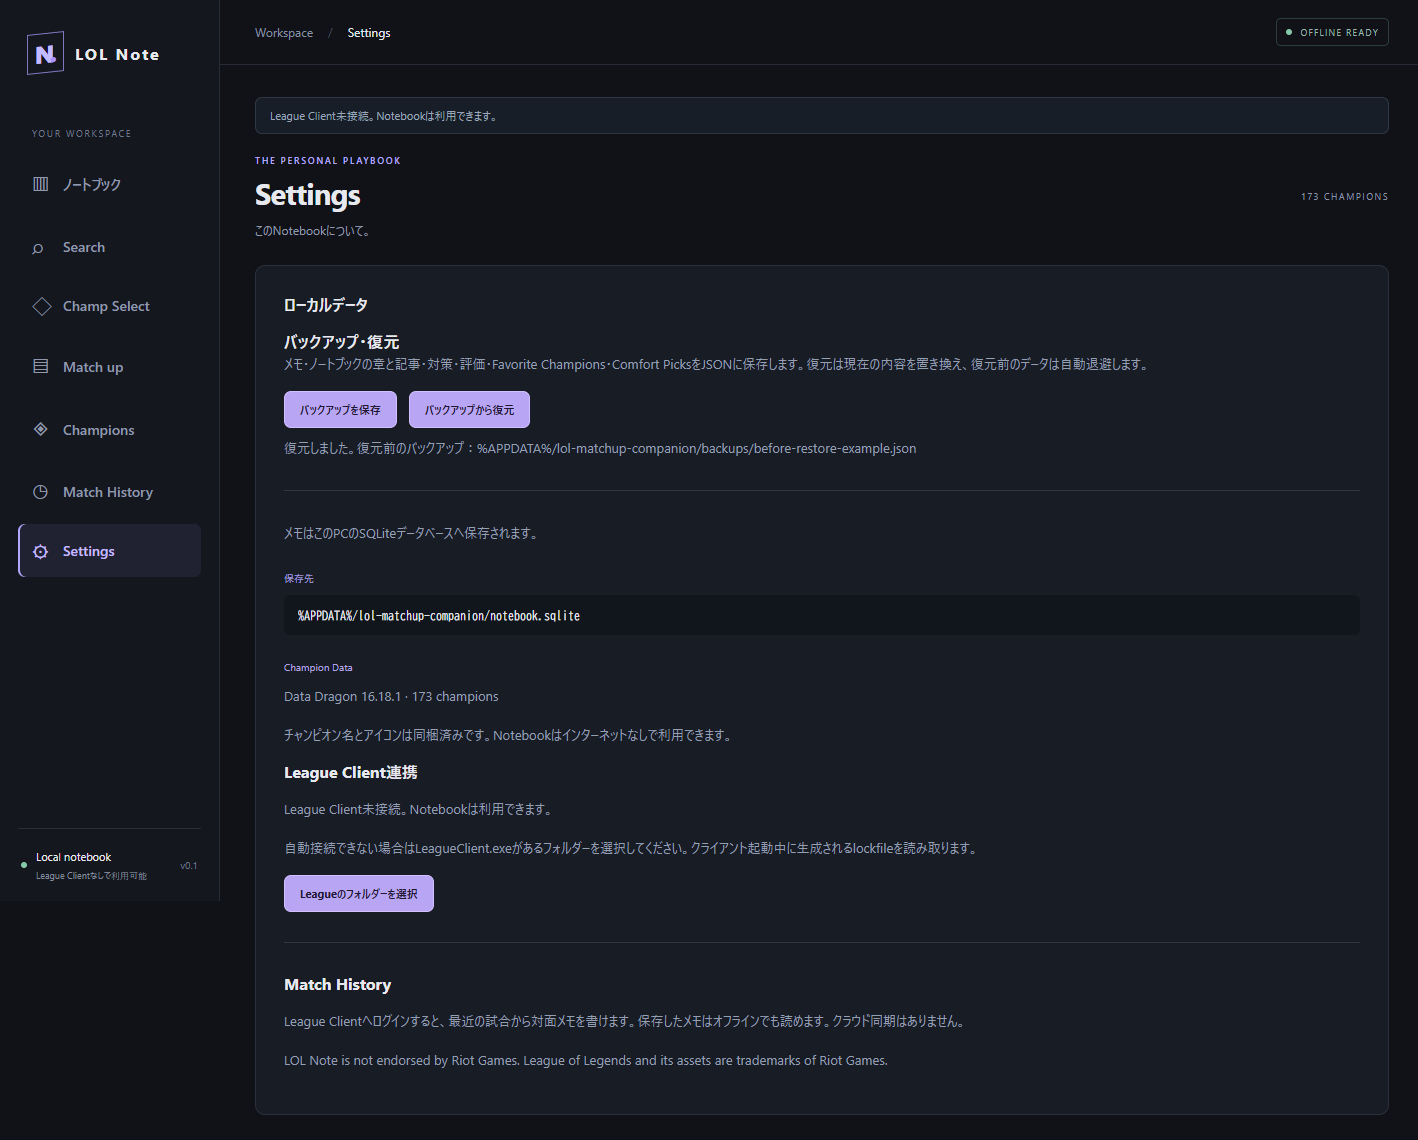
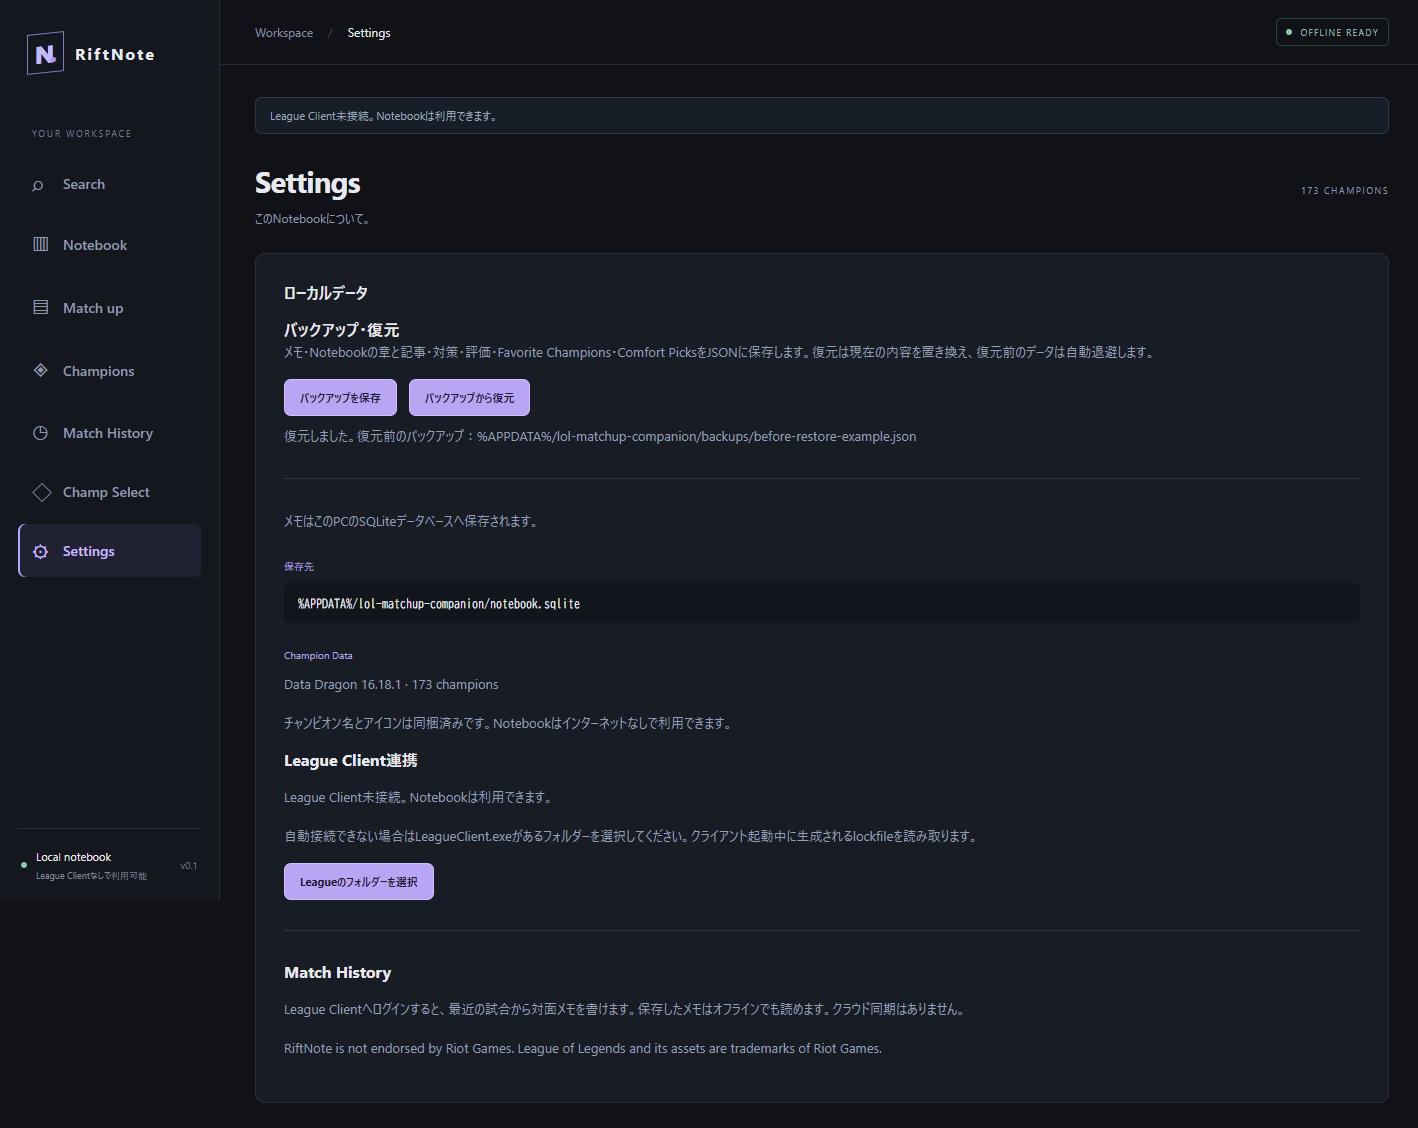
feat: rename product to RiftNote while retaining storage compatibility

diff --git a/src/main/index.ts b/src/main/index.ts
@@ -15,7 +15,7 @@ import { HistoryService } from './history'
 let repository: NotebookRepository | undefined
 let mainWindow: BrowserWindow | null = null
 let lcu: LcuService | undefined
-app.setName('LOL Note')
+app.setName('RiftNote')
 // Keep the existing storage identity when renaming the product, including Chromium data.
 // Only explicit test launches can redirect storage; the renderer cannot choose a path.
 const storageDirectory =
@@ -61,8 +61,8 @@ function registerApi(databasePath: string) {
     exportBackup: async () => {
       const choice = await dialog.showSaveDialog(mainWindow!, {
         title: 'バックアップを保存',
-        defaultPath: `LOL-Note-${new Date().toISOString().slice(0, 10)}.json`,
-        filters: [{ name: 'LOL Note Backup', extensions: ['json'] }],
+        defaultPath: `RiftNote-${new Date().toISOString().slice(0, 10)}.json`,
+        filters: [{ name: 'RiftNote Backup', extensions: ['json'] }],
       })
       if (choice.canceled || !choice.filePath) return null
       if (extname(choice.filePath).toLowerCase() !== '.json')
@@ -74,7 +74,7 @@ function registerApi(databasePath: string) {
       const choice = await dialog.showOpenDialog(mainWindow!, {
         title: 'バックアップから復元',
         properties: ['openFile'],
-        filters: [{ name: 'LOL Note Backup', extensions: ['json'] }],
+        filters: [{ name: 'RiftNote Backup', extensions: ['json'] }],
       })
       if (choice.canceled || !choice.filePaths[0]) return null
       const path = choice.filePaths[0]
@@ -84,7 +84,7 @@ function registerApi(databasePath: string) {
       try {
         backup = parseBackup(JSON.parse(readFileSync(path, 'utf8')))
       } catch {
-        throw new ValidationError('有効なLOL Noteバックアップを選択してください。')
+        throw new ValidationError('有効なRiftNoteバックアップを選択してください。')
       }
       const confirmation = await dialog.showMessageBox(mainWindow!, {
         type: 'warning',
@@ -184,7 +184,7 @@ async function createWindow() {
     height: 940,
     minWidth: 1000,
     minHeight: 720,
-    title: 'LOL Note',
+    title: 'RiftNote',
     backgroundColor: '#101217',
     autoHideMenuBar: true,
     show: false,

diff --git a/src/renderer/src/App.tsx b/src/renderer/src/App.tsx
@@ -640,7 +640,7 @@ export default function App() {
           <div className="brand-symbol">
             N<span>·</span>
           </div>
-          <div>LOL Note</div>
+          <div>RiftNote</div>
         </div>
         <div className="workspace-label">YOUR WORKSPACE</div>
         <nav aria-label="メインナビゲーション">
@@ -907,7 +907,7 @@ export default function App() {
                 Clientへログインすると、最近の試合から対面メモを書けます。保存したメモはオフラインでも読めます。クラウド同期はありません。
               </p>
               <p className="muted">
-                LOL Note is not endorsed by Riot Games. League of Legends and its assets are
+                RiftNote is not endorsed by Riot Games. League of Legends and its assets are
                 trademarks of Riot Games.
               </p>
             </section>

diff --git a/tests/matchup-pool.e2e.ts b/tests/matchup-pool.e2e.ts
@@ -20,8 +20,8 @@ test('matchup pool replaces statistics and selects own picks by lane without los
   const app = await electron.launch({ args: [resolve('.')], env })
   try {
     const page = await app.firstWindow()
-    await expect(page).toHaveTitle('LOL Note')
-    expect(await app.evaluate(({ app }) => app.getName())).toBe('LOL Note')
+    await expect(page).toHaveTitle('RiftNote')
+    expect(await app.evaluate(({ app }) => app.getName())).toBe('RiftNote')
     const panel = page.getByRole('region', { name: 'Match upのFavorite Champions' })
     await expect(panel.locator('.matchup-pool-pick')).toHaveCount(2)
     await expect(panel.locator('.matchup-pool-pick').first()).toContainText('Garen')

diff --git a/tests/backup.e2e.ts b/tests/backup.e2e.ts
@@ -46,7 +46,7 @@ test('settings exports, cancels, rejects invalid backups and restores with a saf
     })
     writeFileSync(backupPath, '{bad json')
     await page.getByRole('button', { name: 'バックアップから復元', exact: true }).click()
-    await expect(page.getByRole('alert')).toContainText('有効なLOL Note')
+    await expect(page.getByRole('alert')).toContainText('有効なRiftNote')
     writeFileSync(backupPath, JSON.stringify(saved))
     await app.evaluate(({ dialog }) => {
       dialog.showMessageBox = async () => ({ response: 1, checkboxChecked: false })

diff --git a/src/renderer/index.html b/src/renderer/index.html
@@ -7,7 +7,7 @@
       http-equiv="Content-Security-Policy"
       content="default-src 'self'; script-src 'self'; style-src 'self' 'unsafe-inline'; img-src 'self' data:; connect-src 'self' ws://localhost:* ws://127.0.0.1:*; object-src 'none'; base-uri 'none'; form-action 'none'"
     />
-    <title>LOL Note</title>
+    <title>RiftNote</title>
   </head>
   <body>
     <div id="root"></div>

diff --git a/src/main/backup.ts b/src/main/backup.ts
@@ -30,7 +30,7 @@ export interface NotebookBackup {
 }
 export function parseBackup(input: unknown): NotebookBackup {
   const fail = (): never => {
-    throw new ValidationError('LOL Noteのバックアップ形式が正しくありません。')
+    throw new ValidationError('RiftNoteのバックアップ形式が正しくありません。')
   }
   const root = object(input)
   if (

diff --git a/docs/release.md b/docs/release.md
@@ -9,9 +9,9 @@ npm ci
 npm run dist
 ```
 
-`dist/LOL-Note-Setup-0.1.0-x64.exe` がインストーラー、`dist/win-unpacked/LOL Note.exe` が展開済みアプリ。初回はElectron・NSISのダウンロードが必要。利用者のPCにはNode.js不要。
+`dist/RiftNote-Setup-0.1.0-x64.exe` がインストーラー、`dist/win-unpacked/RiftNote.exe` が展開済みアプリ。初回はElectron・NSISのダウンロードが必要。利用者のPCにはNode.js不要。
 
-electron-builder 26.15.3 + NSISの案内付きインストーラーを使用。ユーザー単位でインストールし、インストール先を選べる。デスクトップ・スタートメニューにLOL Noteのショートカットを作る。アプリの保存先は旧名の `lol-matchup-companion` を維持し、アンインストールでも消さない。
+electron-builder 26.15.3 + NSISの案内付きインストーラーを使用。ユーザー単位でインストールし、インストール先を選べる。デスクトップ・スタートメニューにRiftNoteのショートカットを作る。アプリの保存先は旧名の `lol-matchup-companion` を維持し、アンインストールでも消さない。
 
 同梱対象は `out/`、package情報、LICENSEと実行時依存。開発ツール・統計収集データ・APIキー・個人DBは含めない。アプリ独自のNアイコンを使用。自動更新・自動公開は設定していない。
 
@@ -23,7 +23,7 @@ npm run lint
 npm run test:e2e
 npm run dist
 git diff --check
-Get-FileHash dist/LOL-Note-Setup-0.1.0-x64.exe -Algorithm SHA256
+Get-FileHash dist/RiftNote-Setup-0.1.0-x64.exe -Algorithm SHA256
 ```
 
 生成物をGitにコミットしない。配布時はインストーラーとSHA256をリリースへ添付する。現時点は署名なし。公開配布の前にコード署名証明書の設定と、クリーンなWindows環境でインストール・更新・アンインストールを確認する。
@@ -35,7 +35,7 @@ Get-FileHash dist/LOL-Note-Setup-0.1.0-x64.exe -Algorithm SHA256
 ## 2026-09-16の検証結果
 
 - Build / Lint / Git diffチェック成功。29 unit tests、10 E2E成功。設定画面の最終調整後にバックアップE2Eを再実行して成功。
-- 配布用exeを直接起動し、isPackaged、LOL Noteの製品名、Settings、IPCと同梱173体のカタログを確認。個人メモの編集は行っていない。
+- 配布用exeを直接起動し、isPackaged、RiftNoteの製品名、Settings、IPCと同梱173体のカタログを確認。個人メモの編集は行っていない。
 - app.asarの275エントリーを確認し、個人DB・.env・統計収集データ・テストコードが同梱されていないことを確認。
 - インストーラー生成成功。SHA256はdist/SHA256SUMS.txtに保存。署名は未付与。
 - クリーンなWindows環境でのインストール・更新・アンインストールとショートカットの実操作は未検証。

diff --git a/README.md b/README.md
@@ -1,4 +1,4 @@
-# LOL Note
+# RiftNote
 
 試合履歴から対面を自動判定し、振り返りをメモに残せます。[使い方と判定方法](docs/match-history.md)を参照してください。
 
@@ -36,7 +36,7 @@ League of Legendsの対面知識を蓄積する、Windows向けの個人用Noteb
 
 ## Windows版のインストール
 
-`LOL-Note-Setup-0.1.0-x64.exe` を実行し、画面に従ってインストールします。Windows x64向けです。Node.jsやnpmは不要で、スタートメニューまたはデスクトップの「LOL Note」から起動できます。
+`RiftNote-Setup-0.1.0-x64.exe` を実行し、画面に従ってインストールします。Windows x64向けです。Node.jsやnpmは不要で、スタートメニューまたはデスクトップの「RiftNote」から起動できます。
 
 現在のビルドは署名なしです。Windowsの警告が表示される場合があります。インストーラーの作成方法と検証範囲は[配布手順](docs/release.md)を参照してください。GitHub Releaseへの公開はまだ行っていません。
 
@@ -176,6 +176,6 @@ APIキー、LCU認証情報、`.env`、個人DBはコミットしません。こ
 ## Assets
 
 Champion名・画像は [Riot Games Data Dragon](https://developer.riotgames.com/docs/lol#data-dragon) を利用しています。
-LOL Note is not endorsed by Riot Games and does not reflect the views or opinions of Riot Games or anyone officially involved in producing or managing League of Legends. League of Legends and Riot Games are trademarks or registered trademarks of Riot Games, Inc.
+RiftNote is not endorsed by Riot Games and does not reflect the views or opinions of Riot Games or anyone officially involved in producing or managing League of Legends. League of Legends and Riot Games are trademarks or registered trademarks of Riot Games, Inc.
 
 All Championsはレーンタブと名前検索を組み合わせて絞り込めます。レーン分類は同梱データを使用し、分類未収録のチャンピオンはAllに表示します。分類元：[Meraki Analytics](https://cdn.merakianalytics.com/riot/lol/resources/latest/en-US/champions.json)。

diff --git a/docs/handoff.md b/docs/handoff.md
@@ -1,6 +1,6 @@
 # 次の開発への引き継ぎ
 
-更新: 2026-09-23。製品名は **LOL Note**。
+更新: 2026-09-23。製品名は **RiftNote**。
 
 ## ユーザー方針
 
